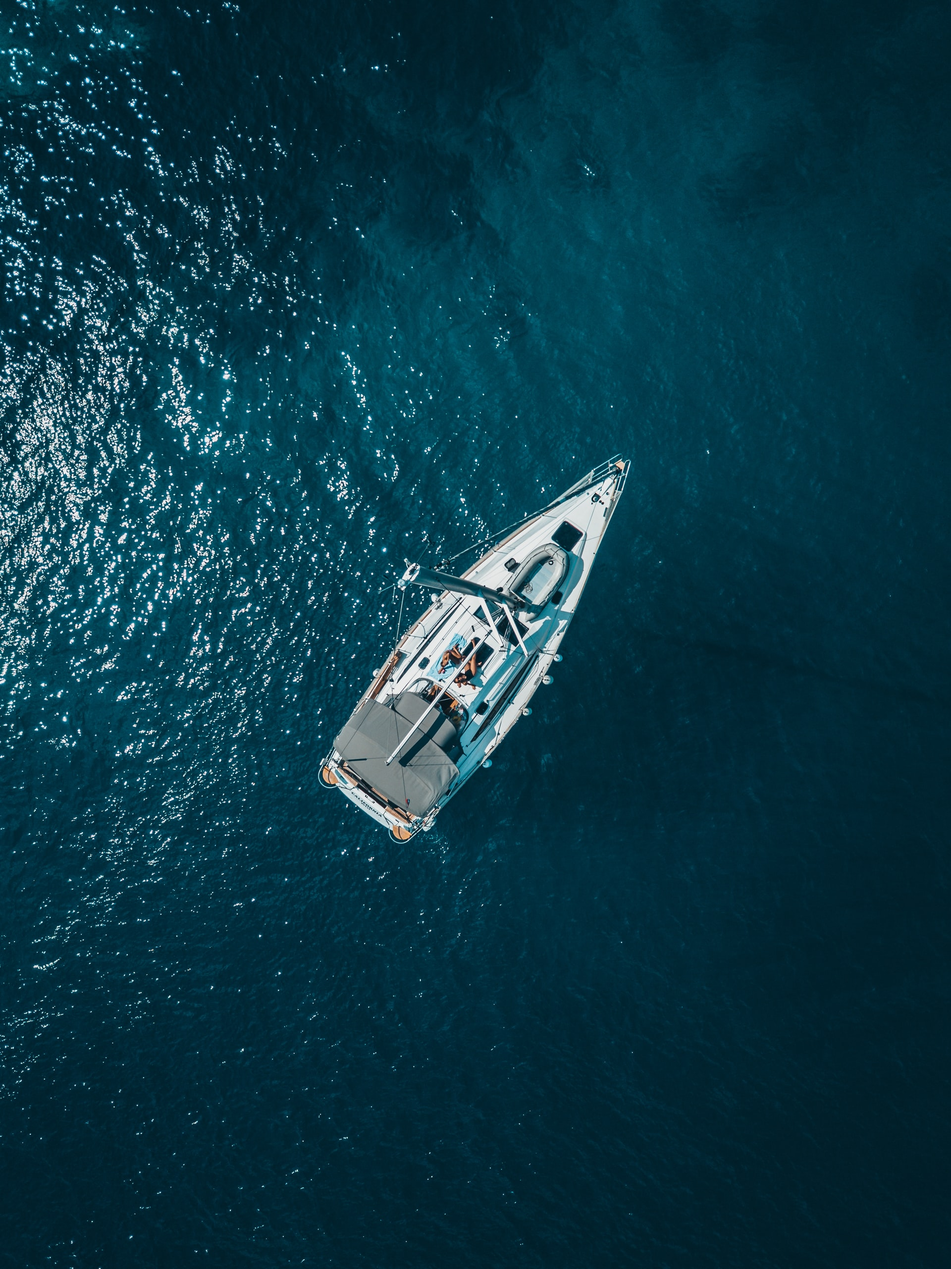
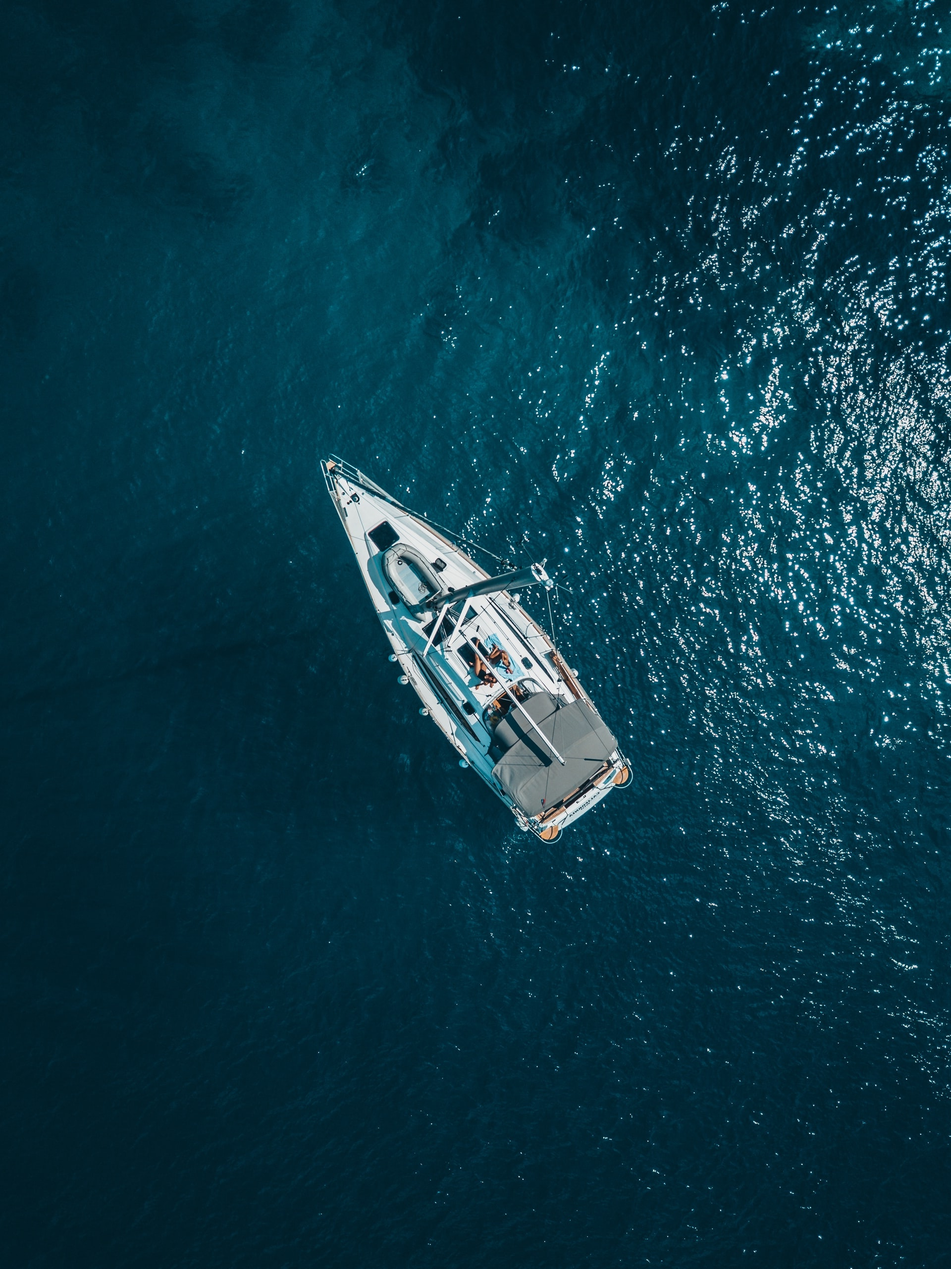
css variables

diff --git a/signup-form/index.html b/signup-form/index.html
@@ -4,6 +4,10 @@
   <meta charset="UTF-8">
   <meta http-equiv="X-UA-Compatible" content="IE=edge">
   <meta name="viewport" content="width=device-width, initial-scale=1.0">
+  <link rel="stylesheet" href="https://use.fontawesome.com/releases/v5.15.4/css/all.css" integrity="sha384-DyZ88mC6Up2uqS4h/KRgHuoeGwBcD4Ng9SiP4dIRy0EXTlnuz47vAwmeGwVChigm" crossorigin="anonymous">
+  <link rel="preconnect" href="https://fonts.googleapis.com">
+  <link rel="preconnect" href="https://fonts.gstatic.com" crossorigin>
+  <link href="https://fonts.googleapis.com/css2?family=Open+Sans:wght@300;400;700&display=swap" rel="stylesheet"> 
   <title>Sign Up Form</title>
   <link rel="stylesheet" href="style.css">
 </head>
@@ -14,7 +18,9 @@
       <p class="headline__desc">Daily UI is a series of daily design challenges and design inspiration.</p>
     </div>
     <div class="socials">
-
+      <i class="fab fa-facebook-f"></i>
+      <i class="fab fa-linkedin-in"></i>
+      <i class="fab fa-instagram"></i>
     </div>
     <form action="submit" class="form">
       <label for="name">Full name</label>

diff --git a/signup-form/style.css b/signup-form/style.css
@@ -1,0 +1,39 @@
+/*
+font-family: 'Open Sans', sans-serif;
+weights: 300 , 400, 700
+*/
+
+:root {
+  /*Colors*/
+  --primary-color: rgb(23, 69, 85);
+  --text-color: rgb(255, 255, 255);
+  --accent-color: rgb(244, 124, 61);
+  /*Font*/
+  --ff: 'Open Sans', sans-serif;
+  --fw-bold: 700;
+  --fw-regular: 300;
+  /*Sizing*/
+  --h1: 1.5rem;
+  --p: 1rem;
+}
+
+*,
+::before,
+::after {
+  box-sizing: border-box;
+  margin: 0;
+  padding: 0;
+}
+
+body {
+  font-size: 14px;
+  background-image: url(./images/background.jpeg);
+  background-repeat: no-repeat;
+  background-size: 800px;
+  background-position: -150px -290px;
+}
+
+.container {
+  width: 100vw;
+  height: 100vh;
+}

diff --git a/signup-form/README.md b/signup-form/README.md
@@ -2,3 +2,5 @@ Credits:
 Background-Image: Photo by <a href="https://unsplash.com/@ollivves?utm_source=unsplash&utm_medium=referral&utm_content=creditCopyText">Oliver Sjöström</a> on <a href="https://unsplash.com/s/photos/drone-yacht?utm_source=unsplash&utm_medium=referral&utm_content=creditCopyText">Unsplash</a>
 
 Design: Alex Koin on dribbble https://dribbble.com/shots/13253726-Sign-Up-form
+
+<i class="fas fa-check"></i>
